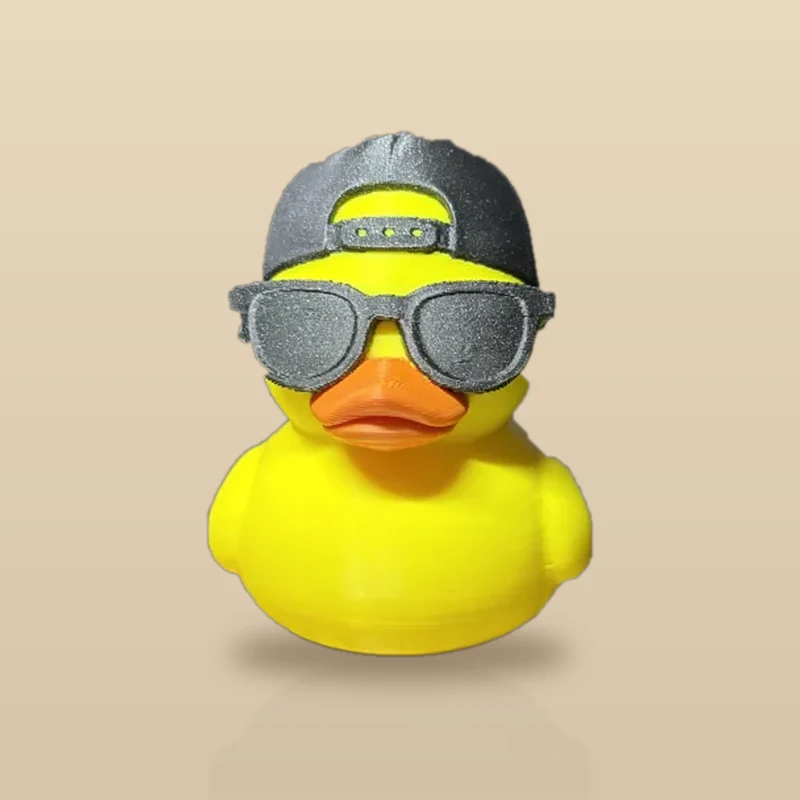
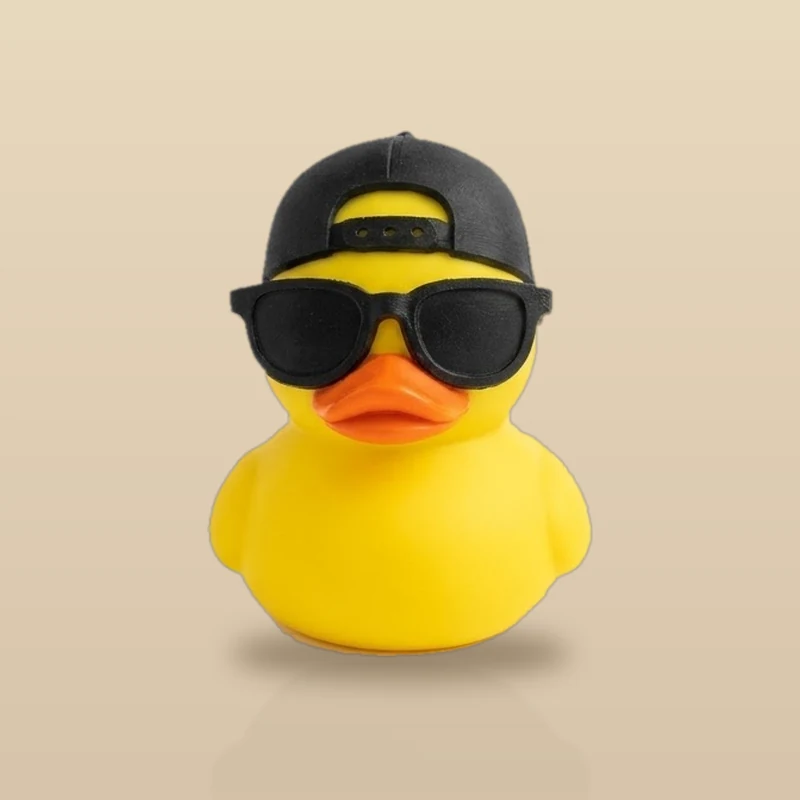
Cool Duck: use the clean white-background photo, cut out on the site's cream background; cache v253
Claude-Session: https://claude.ai/code/session_017P9QyDANTBN39w8UB6j975

Changed region(s): [[0.25, 0.1562, 0.75, 0.8438]]

diff --git a/sw.js b/sw.js
@@ -1,7 +1,7 @@
 // RAX3D shop: network first (always fresh), falls back to cache when offline.
 // v38: points.json is network-only (never cached), old caches are deleted on activate,
 // and 3D models (models/) are capped to the last 8 used so phones don't fill up.
-const C = 'rax3d-shop-v252', M = 'rax3d-models-v104', MAX_MODELS = 8;
+const C = 'rax3d-shop-v253', M = 'rax3d-models-v104', MAX_MODELS = 8;
 self.addEventListener('install', e => self.skipWaiting());
 self.addEventListener('activate', e => e.waitUntil(
   caches.keys().then(ks => Promise.all(ks.filter(k => k !== C && k !== M).map(k => caches.delete(k)))).then(() => self.clients.claim())
